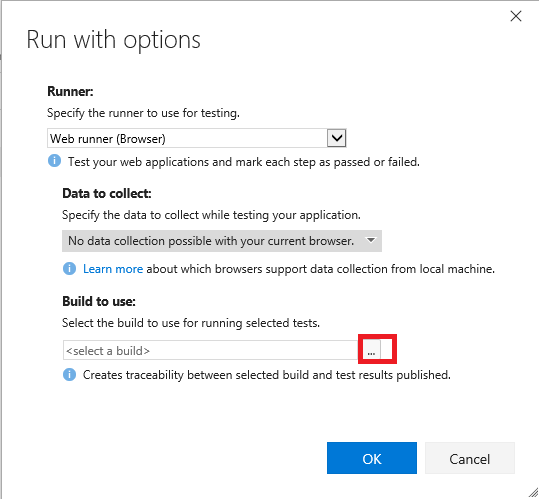
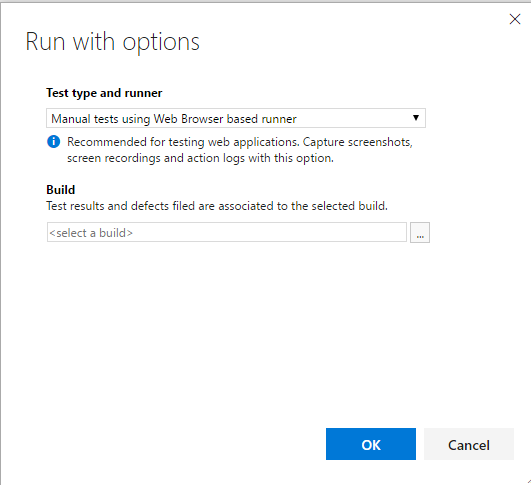
update test lab

diff --git a/labs/vsts/testmanagement/readme.md b/labs/vsts/testmanagement/readme.md
@@ -12,7 +12,7 @@ folder: /labs/vsts/testmanagement/
 
 ## Test Manager Extension
 
-You will need the **Test Manager** Extension to be enabled to your Visual Studio Team Services account. This extension is included with Visual Studio Enterprise, MSDN Platforms and Test Professional subscriptions. If you do not have any of these subscriptions, then you will need to acquire or request a trial version from the [Visual Studio Marketplace](https://marketplace.visualstudio.com/items?itemName=ms.vss-testmanager-web). Please see the **"Installing the Test Manager Extension"** section below for step-by-step instructions to install the extension.
+You will need the **Test Manager** extension to get the comprehensive set of testing features in your Visual Studio Team Services account. This extension is included with Visual Studio Enterprise, MSDN Platforms and Test Professional subscriptions. If you do not have any of these subscriptions, then you will need to acquire or request a trial version from the [Visual Studio Marketplace](https://marketplace.visualstudio.com/items?itemName=ms.vss-testmanager-web). Please see the **"Installing the Test Manager Extension"** section below for step-by-step instructions to install the extension.
 
 ## Task 1: Creating Test Plan
 
@@ -54,8 +54,6 @@ Visual Studio Team Services (VSTS) allows teams to organize test cases into a hi
 
 1. Enter a few test cases. Select the **Save All** button when you are done and select the **View: Grid** to toggle back to the list view
 
-    <img src="images/testcasegrid.png" />  
-
 |Title|Step Action| Step Expected Result|
 |-----|-----------|---------------------|
 | Appointments on Dashboard Page |             |        |
@@ -72,51 +70,51 @@ Visual Studio Team Services (VSTS) allows teams to organize test cases into a hi
 |                                | Click on Login button     | dashboard screen displayed         |
 |                                | Select Appointments       | Appointments main screen displayed |
 
-
+  <img src="images/testcasegrid.png" />  
 
 ## Task 2: Running Manual Tests
 
-7.  Right-click the test case created earlier and select **Run with options** to begin a manual test run.
+You can run your manual tests and record the test results for each test step using Microsoft Test Runner. You can also capture and attach documents and screen shots to the test and save them together with the test result. 
 
+Microsoft Test Runner is available both in web  and as a Windows desktop client. If you are testing a web-based app or just want to capture screen recordings when testing a desktop app, use the web-based Microsoft Test Runner. The Windows client is only recommended when you want to collect more types of data when testing a desktop.
+
+We will use the web-based Test Runner since we are testing a web application.
+
+1. Right-click the test case created earlier and select **Run** to start the test execution.
    <img src="images/30.png" width="624">
 
-8. There are a few options that you can use to customize each test run. The first option is to select a **Runner**, which will be the browser in this scenario. Next, you have the option to specify what kind of **data to collect**. Finally, you may optionally specify which build is being tested to make it easier to associate the results with the build they were from. Click the **...** button to select a build.
-
+>You can select  **Run with Options**  to customize each test run. The first option is to select a **Runner**, which will be the browser in this scenario. Next, you have the option to specify what kind of **data to collect**. Finally, you may optionally specify which build is being tested to make it easier to associate the results with the build they were from. 
    <img src="images/31.png" >
 
-9. Click **Find** to search builds. Using the default settings returns all builds.
-
-   <img src="images/32.png" width="624">
-
-10. If you do not want to select any builds, then press **Esc** within the **Find Builds** window.
-
-11. Click **OK** to continue.
-
-    <img src="images/33.png" >
-
-12. If the Test Runner window does not appear, check if the window is blocked by the pop-up blocker. If so, click the Pop-up blocker button, select **Always allow** and then click Done. You can then launch the **Test runner** window successfully.
-
-    <img src="images/34.png" width="624">
+2. If the Test Runner window does not appear, check if the window is blocked by the pop-up blocker. If so, click the Pop-up blocker button, select **Always allow** and then click Done. You can then launch the **Test runner** window successfully.
+    <img src="images/popupblocker.png" width="624">
 
 13. You can see the **Test Runner** window now.
-
     <img src="images/35.png" >
 
-14. Let's start executing the Test Case now. 
+14. As you go about performing the test steps, you can capture the results for every step. If the step results in the expected outcome, you can mark the step as "Passed" by selecting the OK symbol next to the test step. To mark a test step as "Failed", you can select the cancel symbol. You can also right-click the test step to mark the results. You can also add comments and attachments to the test step
+    <img src="images/stepresults.png" >
 
-    - **Test Step 1**: The first test step in this test case is to open <a href="">MyHealthClinicWebsite</a>. To do this, open a new window in Chrome. If you’re working on a large screen, it may be easier to resize the new window to fit next to the **Test Runner** window. Otherwise you can just switch back and forth.
+### Capturing rich data 
+Often when you do manual testing, you want to capture just more than a pass or fail status. Microsoft Test Runner allows you to capture rich information including screen shots, action log and even screen recording. 
 
-      <img src="images/36.png" width="624">
+1. You can use the buttons on the top of the Test Runner window to capture a screen shot or start/stop recording a video. 
+<img src="images/capturescreenshot.png" />
 
-    - **Test Step 2**: Once the site loads, return to the **Test Runner** and click the **Pass test** step button.
+You will need to select from the dropdown list , an open window from which you want to capture the screenshot. 
 
-      <img src="images/37.png" >
+2. You can also capture your interactions with the app that you are testing, as image action logs. This can be very helpful when you identify a bug and want to record the steps that led to the bug. To start recording your action, select the **Capture user actions...** icon and choose the window that contains the app that you are testing
+ <img src="images/captureuseraction.png" />
 
-      >**Note**: When you execute each Test step and the step passes, you can mark it as passed. Do this for the remaining test steps.
+3. Select **Start** to start capturing the actions. The Test Runner will now record all the actions you take on the app's browser tab. 
 
-15. Click **Save and close** from the Test runner.
+    >If you create a bug while recording your actions, all the data collected up to that point will be included in the bug.
 
-    <img src="images/42.png">
+4. Select the **Stop** button to finish capturing your actions. The action log will be added to the test results as an attachment. 
+  <img src="images/imagelogattach.png" />
+
+4. To view the data captured, you can click the attachement to open it in a browser 
+  <img src="images/imagelog.png" />
 
 ## Task 4: Creating Shared Steps
 
@@ -195,7 +193,7 @@ Shared Steps combines multiple steps that are commonly performed in sequence int
 
    <img src="images/29.png" >
 
-6. Now that we are good to go, let's explore the features.
+
 
 
 
